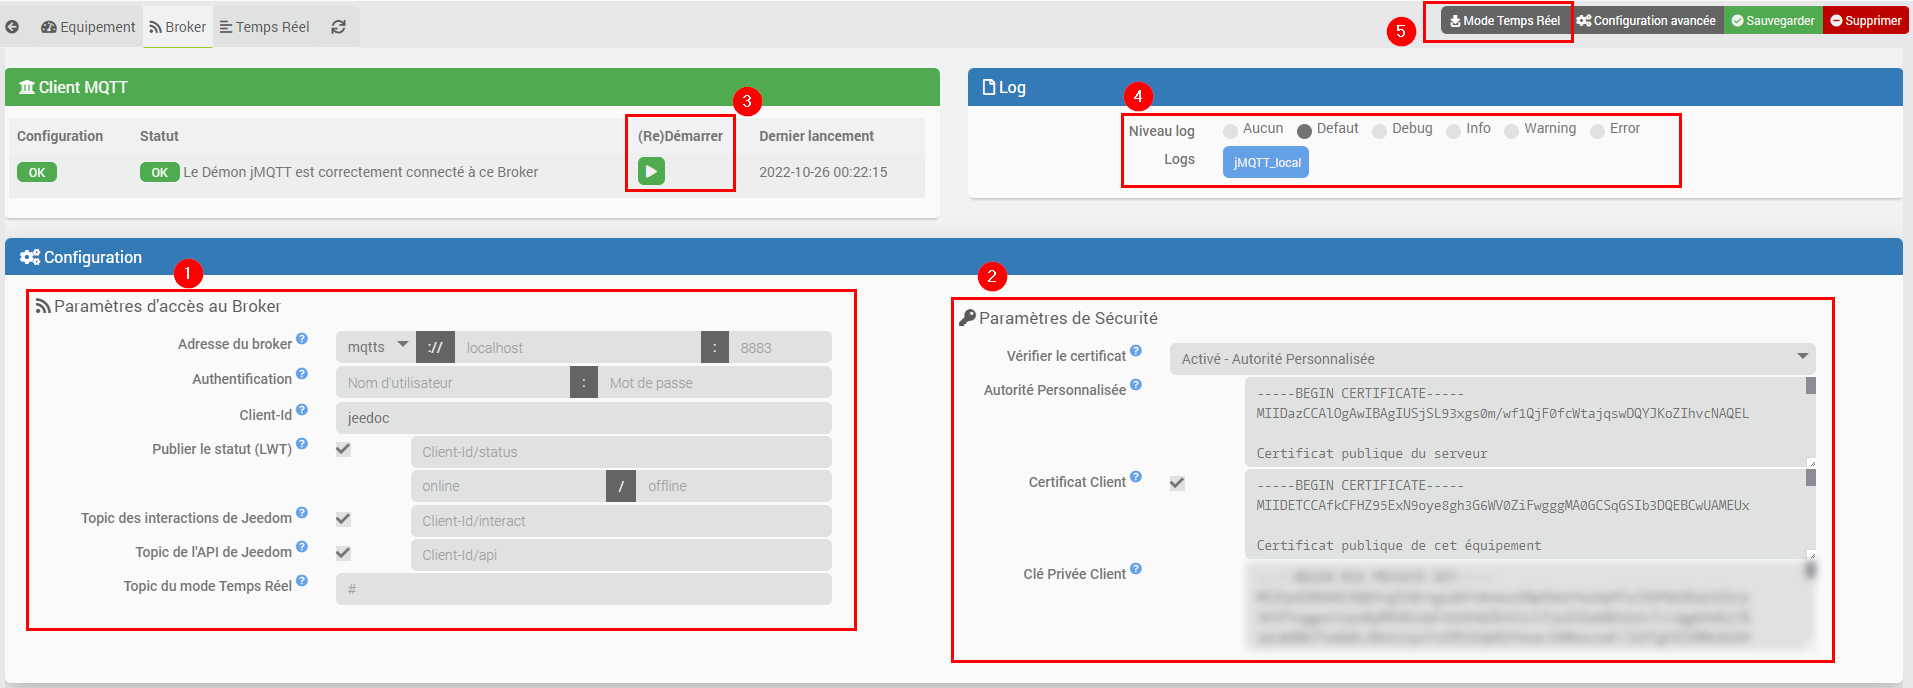
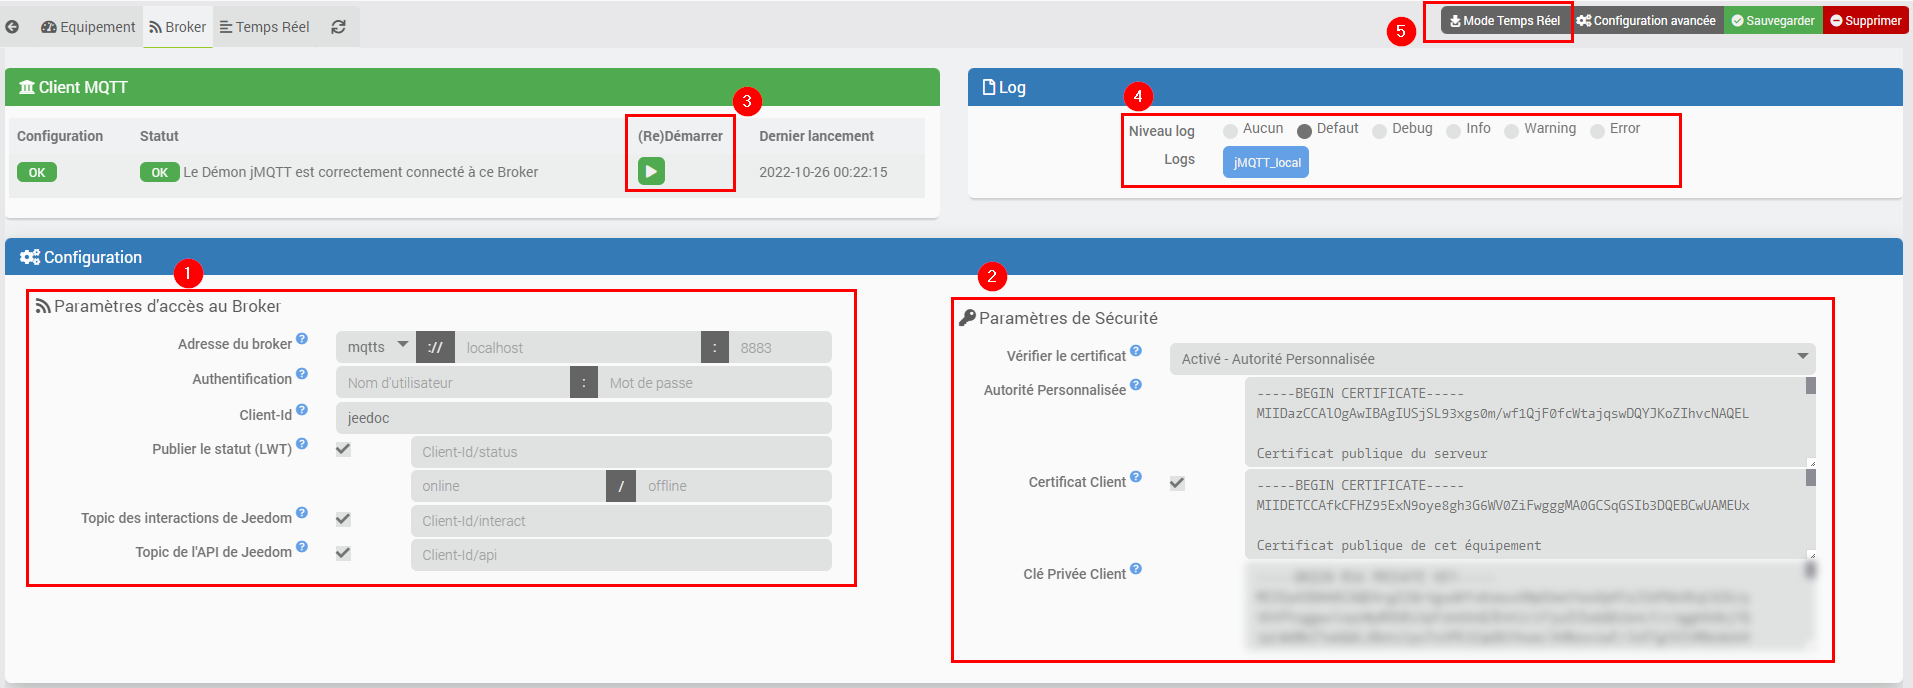
Doc and Changelog

Changed region(s): [[0.0308, 0.8241, 0.4626, 0.8852]]

diff --git a/docs/fr_FR/index_beta.md b/docs/fr_FR/index_beta.md
@@ -105,7 +105,7 @@ En-dessous se trouve un champ de recherche, puis un panneau listant les équipem
 
 jMQTT possède 2 types d'équipements. Il est très important de faire la distinction entre :
   - les **équipements de type Broker**, qui sont les clients MQTT qui gèrent la connexion avec les Broker MQTT.
-On les retrouve toujours en début de section et ils sont facilement identifiables grâce à leur fond jaune et leur icone particulière.
+On les retrouve toujours en début de section et ils sont facilement identifiables grâce à leur fond jaune et leur icône particulière.
 Ils sont souvent appelés **Broker** par abus de langage, ce sera le cas dans la suite de ce document;
   - les **équipements "classiques"**, qui portent les commandes info/action, ils sont simplement appelés **équipement**.
 
@@ -130,7 +130,7 @@ Il existe également une vue sous forme de table (TableView) :
 
 Elle s'active en cliquant sur le bouton tout à droite du champ de recherche (dans l'encadré rouge ci-dessus).
 
-En plus de retrouver dans cette vue les informations classiques (icone, objet, nom, s'il est activé), des icones à droite permettent de retrouver rapidement des informations importantes.
+En plus de retrouver dans cette vue les informations classiques (icône, objet, nom, s'il est activé), des icônes à droite permettent de retrouver rapidement des informations importantes.
   - Sur un Broker, on retrouvera 3 informations : son statut (OK, POK, NOK), s'il est visible et s'il est en Mode Temps Réel,
   - Sur un Equipement, on retrouvera 5 informations : son statut d'activation, s'il est visible, s'il est en ajout automatique de commande, son état de batterie et son état de disponibilité.
 
@@ -171,9 +171,8 @@ Pour modifier les informations de connexion au Broker, les paramètres sont :
     - _Client-Id_ : identifiant avec lequel l'équipement Broker s’inscrit auprès du Broker MQTT (jeedom par défaut).
     - _Publier le statut (LWT)_ : active/désactive la publication du statut de connexion de cet équipement Broker en MQTT sur le Broker.
       Une fois cette option sélectionnée il sera possible de configurer le topic du LWT, ainsi que les messages envoyés lorsque jMQTT est connecté ou non.
-    - _Topic des interactions de Jeedom_ : topic de premettant d'envoyer des [demandes d'interaction](#TODO) à Jeedom (par défaut, le Client-Id suivi de '/interact' est utilisé).
+    - _Topic des interactions de Jeedom_ : topic de premettant d'envoyer des [demandes d'interaction](#gestion-des-interactions) à Jeedom (par défaut, le Client-Id suivi de '/interact' est utilisé).
     - _Topic de l'API de Jeedom_ : (obsolète) topic présentant l'API JSON RPC de Jeedom (par défaut, le Client-Id suivi de '/api' est utilisé).
-    - _Topic du mode Temps Réel_ : topic de souscription utilisé lorsque le [mode Temps Réel](#TODO) est activé (\# par défaut, i.e. tous les topics).
 
   - Section _Paramètres de Sécurité_ (encadré 2), bien lire le chapitre sur l'utilisation du [Chiffrement TLS](#chiffrement-tls) :
     - Cette section apparait uniquement si le protocole mqtts est sélectionné
@@ -192,30 +191,52 @@ Il est aussi possible de relancer volontairement le client MQTT avec le bouton _
 
 **Info**
 
- - Dès que l'équipement Broker est activé, le démon se connecte au Broker MQTT et traite les messages.
- - Si vous désactivez un équipement Broker, les équipements associés ne recevront et n'enverront plus de messages.
- - En cas de déconnection intempestive au Broker MQTT, le démon tentera immédiatement une reconnexion, puis toutes les 15s.
+  - Dès que l'équipement Broker est activé, le démon se connecte au Broker MQTT et traite les messages.
+  - Si vous désactivez un équipement Broker, les équipements associés ne recevront et n'enverront plus de messages.
+  - En cas de déconnection intempestive au Broker MQTT, le démon tentera immédiatement une reconnexion, puis toutes les 15s.
 
 Chaque équipement Broker possède son propre fichier de log (encadré 4) suffixé par le nom de l'équipement.
 Si l'équipement est renommé, le fichier de log le sera également.
 
+#### Mode Temps Réel
 
-Le mode Temps Réel (encadré 5) permet la visualisation en temps réel des messages qui arrivent (selon le Topic du mode Temps Réel configuré) et la création de nouvelles commandes sur les équipements.
-Il s’active, pour le Broker concerné, en cliquant sur le bouton *Mode Temps Réel* en haut à droite sur l'équipement Broker.
-Il se désactive en recliquant sur le même bouton, ou automatiquement après environ 3 minutes.
+Le mode Temps Réel (encadré 5) permet la visualisation en temps réel des messages qui arrivent :
 
-<!-- TODO here
+![Mode Temps Réel](../images/2022-10-26_broker_realtime.png)
 
-Gestion des Interactions
+Après avoir configuré les Topics de souscription Temps Réel et éventuellement les Topics exclus du Temps Réel utilisés pour récupérer les messages (encadré 1)
 
--->
+Le mode temps réel s’active, pour le Broker concerné, en cliquant sur le bouton *Mode Temps Réel* en haut à droite sur l'équipement Broker et se désactive en recliquant sur le même bouton (encadré 2), ou automatiquement après environ 3 minutes.
+
+Les messages reçu sont stockés uniquement coté navigateur.
+
+Les Outils de recherche et de pagination (encadré 3) permettent de rechercher, trier et sélectionner facilement des messages MQTT.
+
+Selon les messages reçus, des icônes peuvent apparaitre dans la colonne Option (encadré 4) :
+
+  - Les icônes orange signifient que les messages ont été republiés lors de l'activation du mode Temps Réel et son stockées dans le Broker (elles sont Retain),
+  - Les icônes vertes montrent permettent de savoir que ce topic est déjà porté par un équipement jMQTT. En passant la souris sur l'icône les équipements concernés sont affichés.
+
+Une fois des messages identifiés, des outils sont disponibles en fin de ligne (encadré 5) pour les utiliser.
+
+  - La première icône permet d'ajouter une commande avec ce topic et jsonPath à un équipement existant,
+  - La seconde de découper un payload et de créer de nouvelle lignes dans la page Temps Réel,
+  - La troisième icône sert à supprimer la ligne de la vue Temps Réel.
+
+#### Gestion des Interactions
+
+Il est possible d'envoyer en MQTT des demandes d'interaction à Jeedom au travers du "Topic des interactions de Jeedom" décrit dans la section [Configuration de l'équipement Broker](#configuration).
+
+3 topic sont utilisé pour les interaction :
+
+ - jMQTT attend des demandes d'interaction directement sur le topic présent dans la case "Topic des interactions de Jeedom". Par exemple, pour exécuter la commande `#[Chambre][Lampe][On]#`, il est possible d'envoyer la demande "Allume la lampe dans la Chambre" sur ce topic.
+ - Une réponse du moteur d'interaction sera effectuée en json sur le sous-topic '/reply'. Par exemple, dans le cas précédent, la réponse `{"status":"ok","query":"","reply":"C'est fait (Chambre Lampe On)"}` y serait envoyée.
+ - Pour des attentes d'interaction particulières, il est aussi possible d'envoyer une demande en json selon les paramètres attendus par la fonction du Core Jeedom `interactQuery::tryToReply()` sur le sous-topic '/advanced'. Le format attendu est du type : `{"query": string, "reply_cmd": <cmdId>, "profile": <user>, "emptyReply": bool, "force_reply_cmd": bool, "utf8": bool}` (se rapprocher de la documentation du Core pour plus d'information), la réponse a lieu sur le même topic que précédemment.
+
 
 ## Equipement
 
 Le plugin souscrit auprès du Broker le topic configuré dans [l'onglet Broker](#onglet-Broker) (\# par défaut, i.e. tous les topics) de l'équipement Broker concerné. 
-<!-- TODO here
-A réception d’un message auquel aucun équipement n’a souscrit, le plugin crée automatiquement un équipement associé au topic de premier niveau.
--->
 
 Prenons comme exemple les messages MQTT suivants :
 

diff --git a/docs/fr_FR/changelog_beta.md b/docs/fr_FR/changelog_beta.md
@@ -1,8 +1,10 @@
 # Registre des évolutions BETA
 
-## 2022-10-28 à 01h
- - **Retour en arrière sur la suppression des commandes 'status' sur les équipements Broker. Elles sont utilisées pour avoir l'état de connexion de jMQTT au Broker**
- - Paufinage du mode Temps Réel
+## 2022-10-29
+ - **Retour en arrière sur la suppression des commandes 'status' sur les équipements Broker permettant d'avoir l'état de connexion de jMQTT au Broker**
+ - Mise en warning des équipements Broker lorsqu'ils n'arrivent pas à se connecter
+ - Amélioration du mode Temps Réel
+ - Mise à jour de la documentation
 
 ## 2022-10-26 à 15h
  - Correction d'un bug dans le script d'installation du plugin, **il est NÉCESSAIRE DE RESTAURER UNE BACKUP si vous avez mis à jour avec la version de la nuit**
@@ -17,10 +19,10 @@
  - Amélioration du code JS pour rendre le plugin plus léger et réactif lors du chargement
 
 ## 2022-10-19 Interactions
- - **Déplacement/Suppression de toutes les commandes présentes sur les équipements Broker**
+ - --- Annulé par la version 2022-10-19 --- **Déplacement/Suppression de toutes les commandes présentes sur les équipements Broker**
  - **Meilleure gestion du "topicMismatch", avertissement avant de sauvegarder et visuellement dans les champs lors de la saisie**
  - **Ajout du support des Interactions Jeedom via MQTT**
- - Support minimum de la version 4.2.11 de Jeedom
+ - Support minimum avancé à la version 4.2.11 de Jeedom (au lieu de la version 4.2.16)
  - Ajout du transport du protocole MQTT sur Web Sockets (ws) et Web Sockets Secure (wss)
  - Ajout de champs dans le broker pour définir le topic LWT et les valeurs quand le broker est en-ligne et hors-ligne
  - Mise en place de champs dans le broker pour définir le topic API

diff --git a/docs/fr_FR/index.md b/docs/fr_FR/index.md
@@ -148,7 +148,7 @@ Il peut aussi servir en interne Jeedom pour monitorer la connexion au Broker via
 
 ### Configuration
 
-![Configuration du Broker](../2022-10-16_images/eqpt_broker.png)
+![Configuration du Broker](../images/2022-10-16_eqpt_broker.png)
 
 Par défaut, un équipement Broker est configuré pour s’inscrire au Broker Mosquitto installé localement.
 Si cette configuration convient, activer l'équipement et sauvegarder. Revenir sur l'onglet _Broker_, le statut du démon devrait passer à OK.
